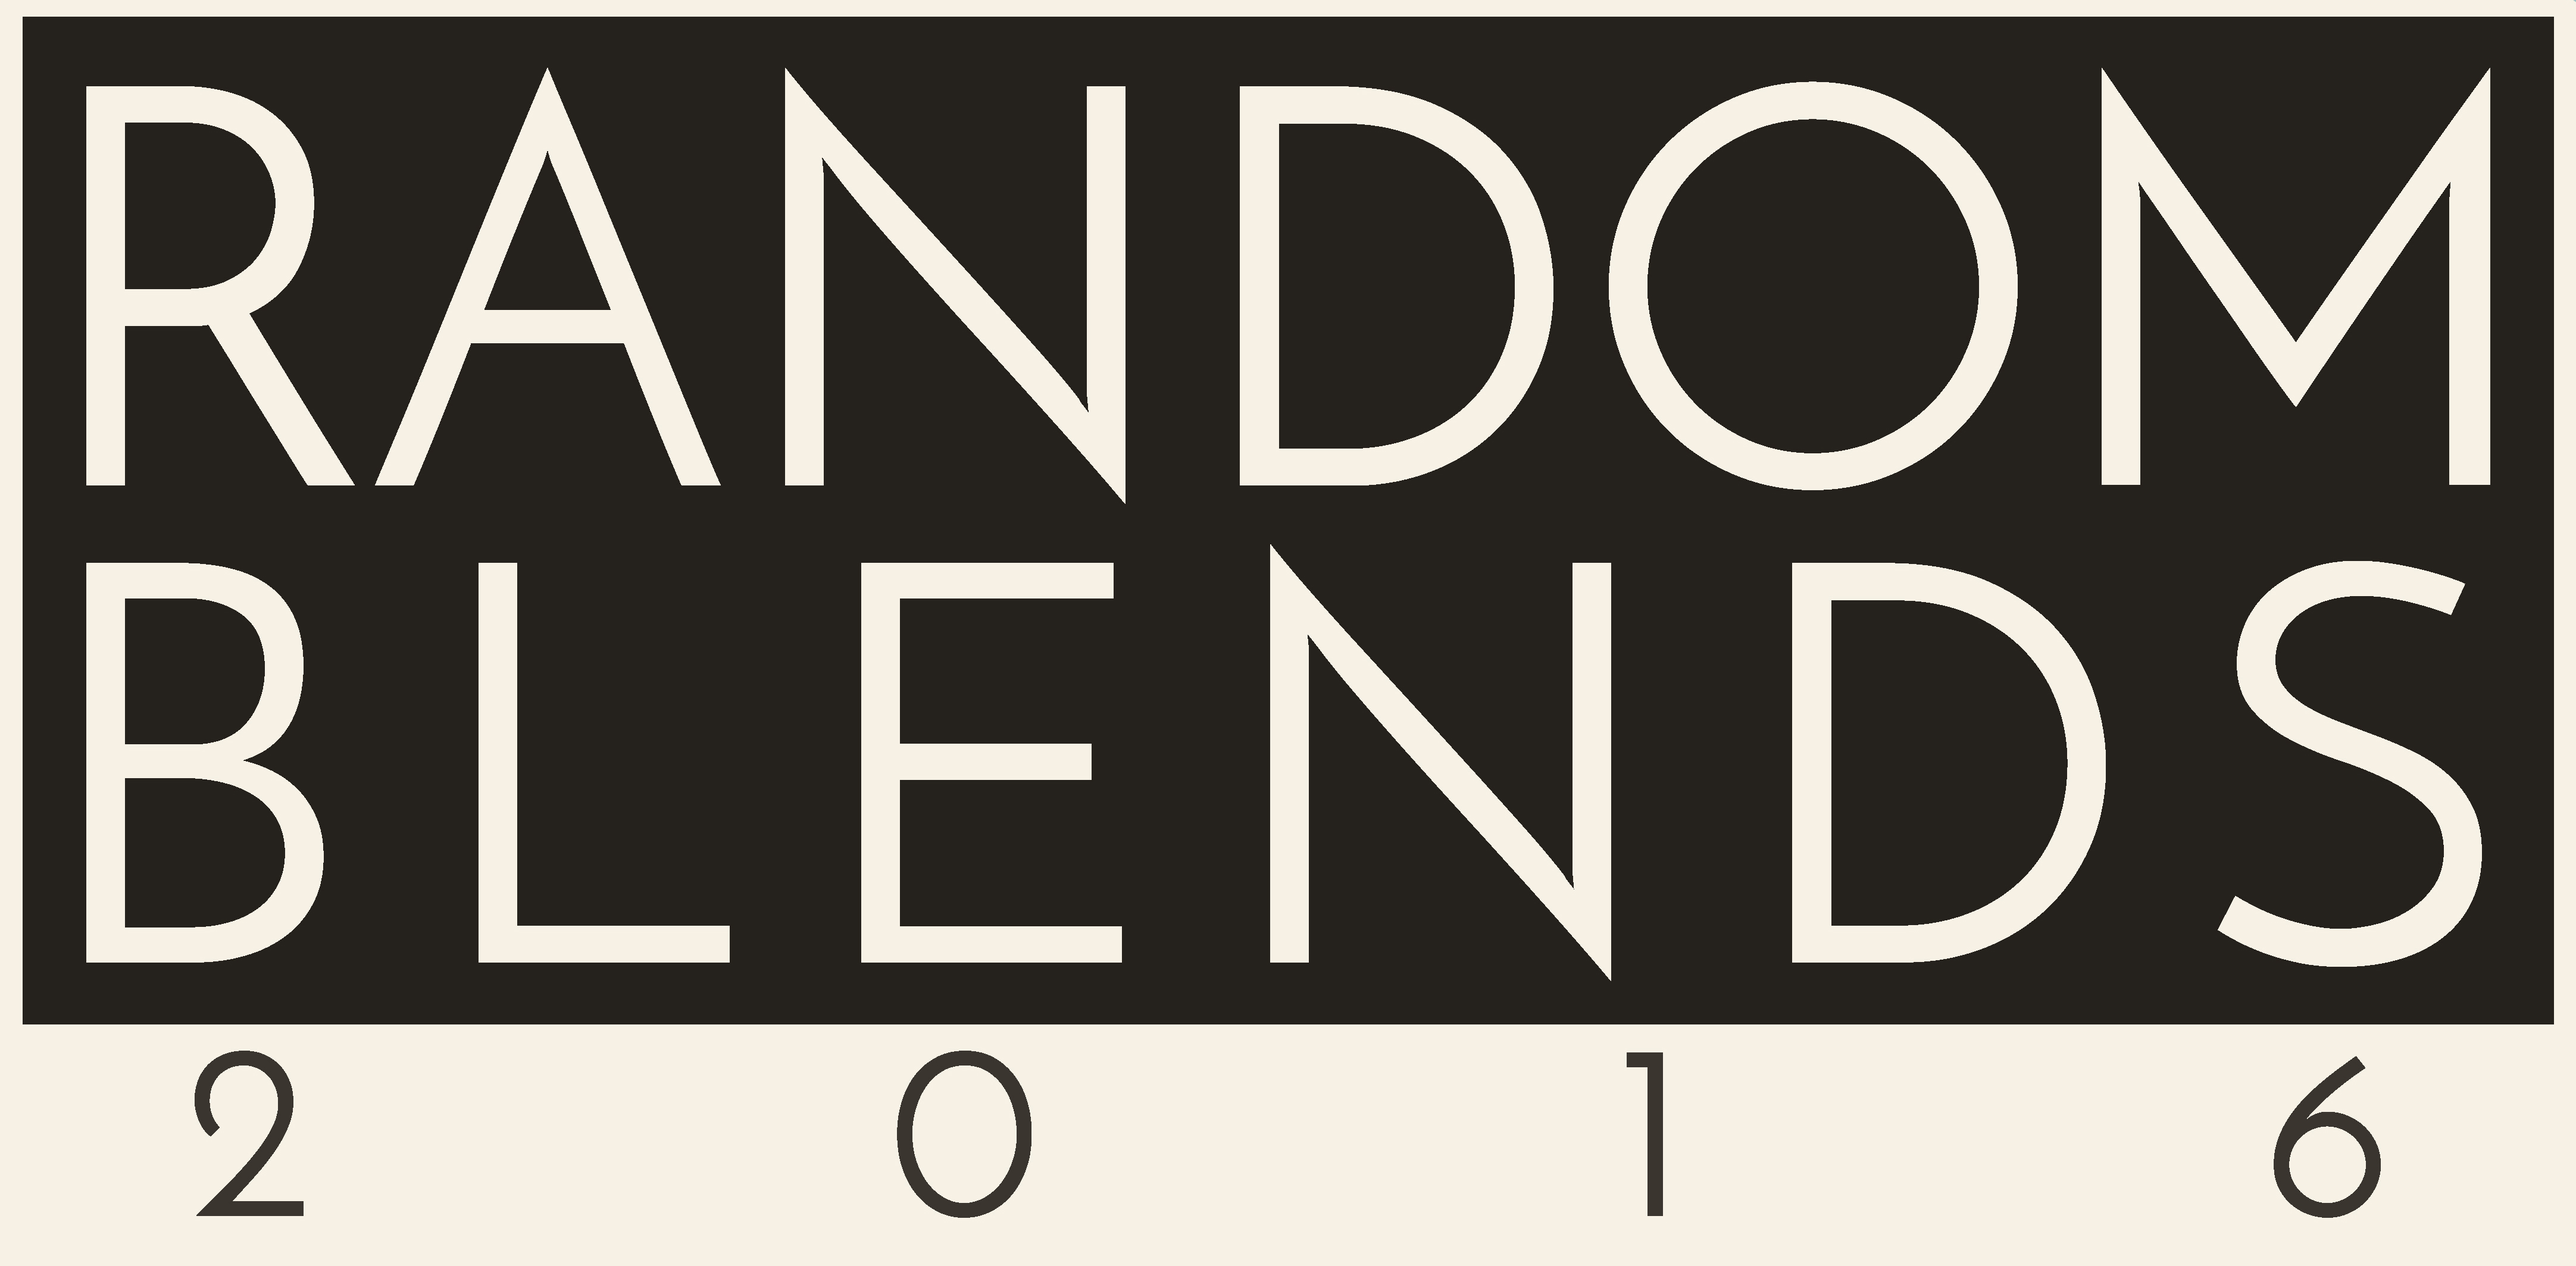
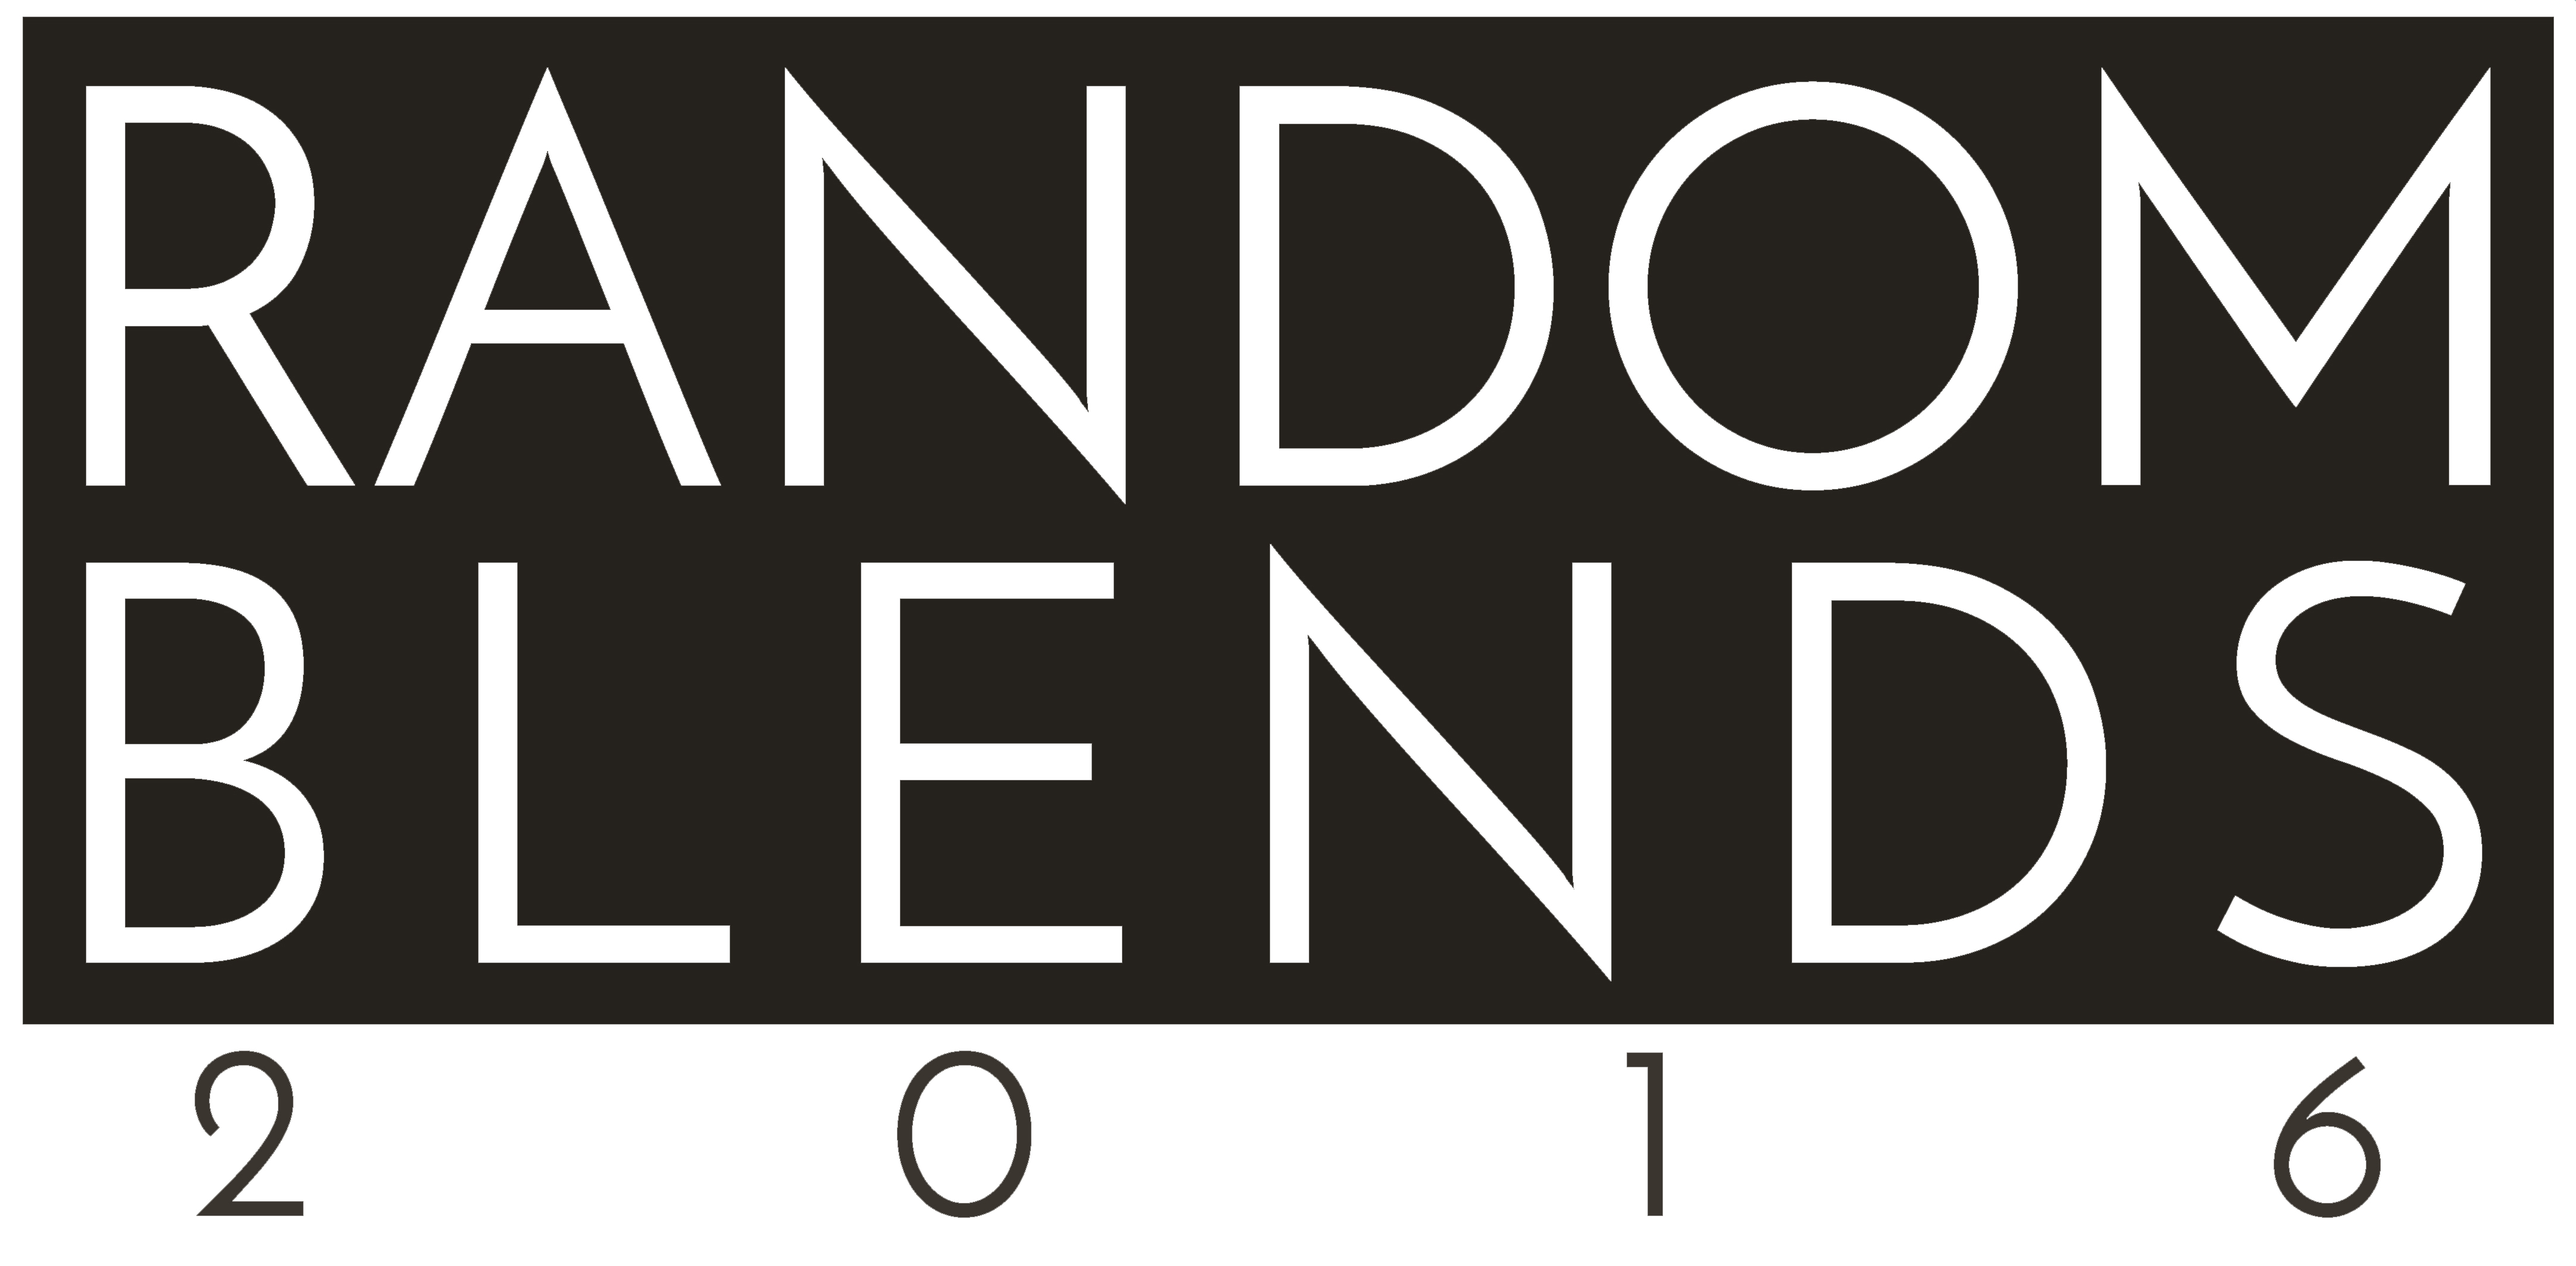
update nav bar + header image and text

diff --git a/index.html b/index.html
@@ -33,11 +33,11 @@
 		<h1 class="header-font site-menu-header underline">Menu</h1>
 		<ul class="site-menu-list">
 			<!-- IMPORTANT WHEN ADDING: CHANGE THE FIRST CLASS OF EACH ITEM ACCORDINGLY -->
-			<a href="#featured"><li class="item-one site-menu-item"><h4>Featured Work</h4></li></a>
-			<a href="#"><li class="item-two site-menu-item"><h4>Contact us</h4></li></a>
-			<a href="#"><li class="item-three site-menu-item"><h4>Gallery</h4></li></a>
-			<a href="#"><li class="item-four site-menu-item"><h4>History</h4></li></a>
-			<a href="#map"><li class="item-five site-menu-item"><h4>Getting There</h4></li></a>
+			<a href="#featured"><li class="item-one site-menu-item"><h4>Explore</h4></li></a>
+			<a href="#"><li class="item-two site-menu-item"><h4>Play</h4></li></a>
+			<a href="#"><li class="item-three site-menu-item"><h4>Learn</h4></li></a>
+			<a href="#"><li class="item-four site-menu-item"><h4>Getting Here</h4></li></a>
+			<a href="#map"><li class="item-five site-menu-item"><h4>Contact Us</h4></li></a>
 		</ul>
 		<button class="site-menu-collapse-button site-menu-button">
 			<div class="empty-container"></div>
@@ -48,10 +48,9 @@
 
 <article id="site-logo-wrapper" class="site-content-block">
 	<div id="site-logo-content">
-		<img id="site-logo" src="assets/images/random-blends.jpg">
-		<h4>A student work exhibition where technology meets art</h2>
-		<h5>25-27 March | 10am - 7pm | ArtScience Museum<br> 
-				Free Admission</h3>
+		<img id="site-logo" src="assets/images/random-blends.png">
+		<h4>A student showcase of digital media and interactive art</h2>
+		<h5>25-27 March | 10am - 7pm (last admission 6PM) <br>| ArtScience Museum | Free Admission</h3>
 		<button class="site-default-button">Audio Tour</button>
 	</div>
 </article>
